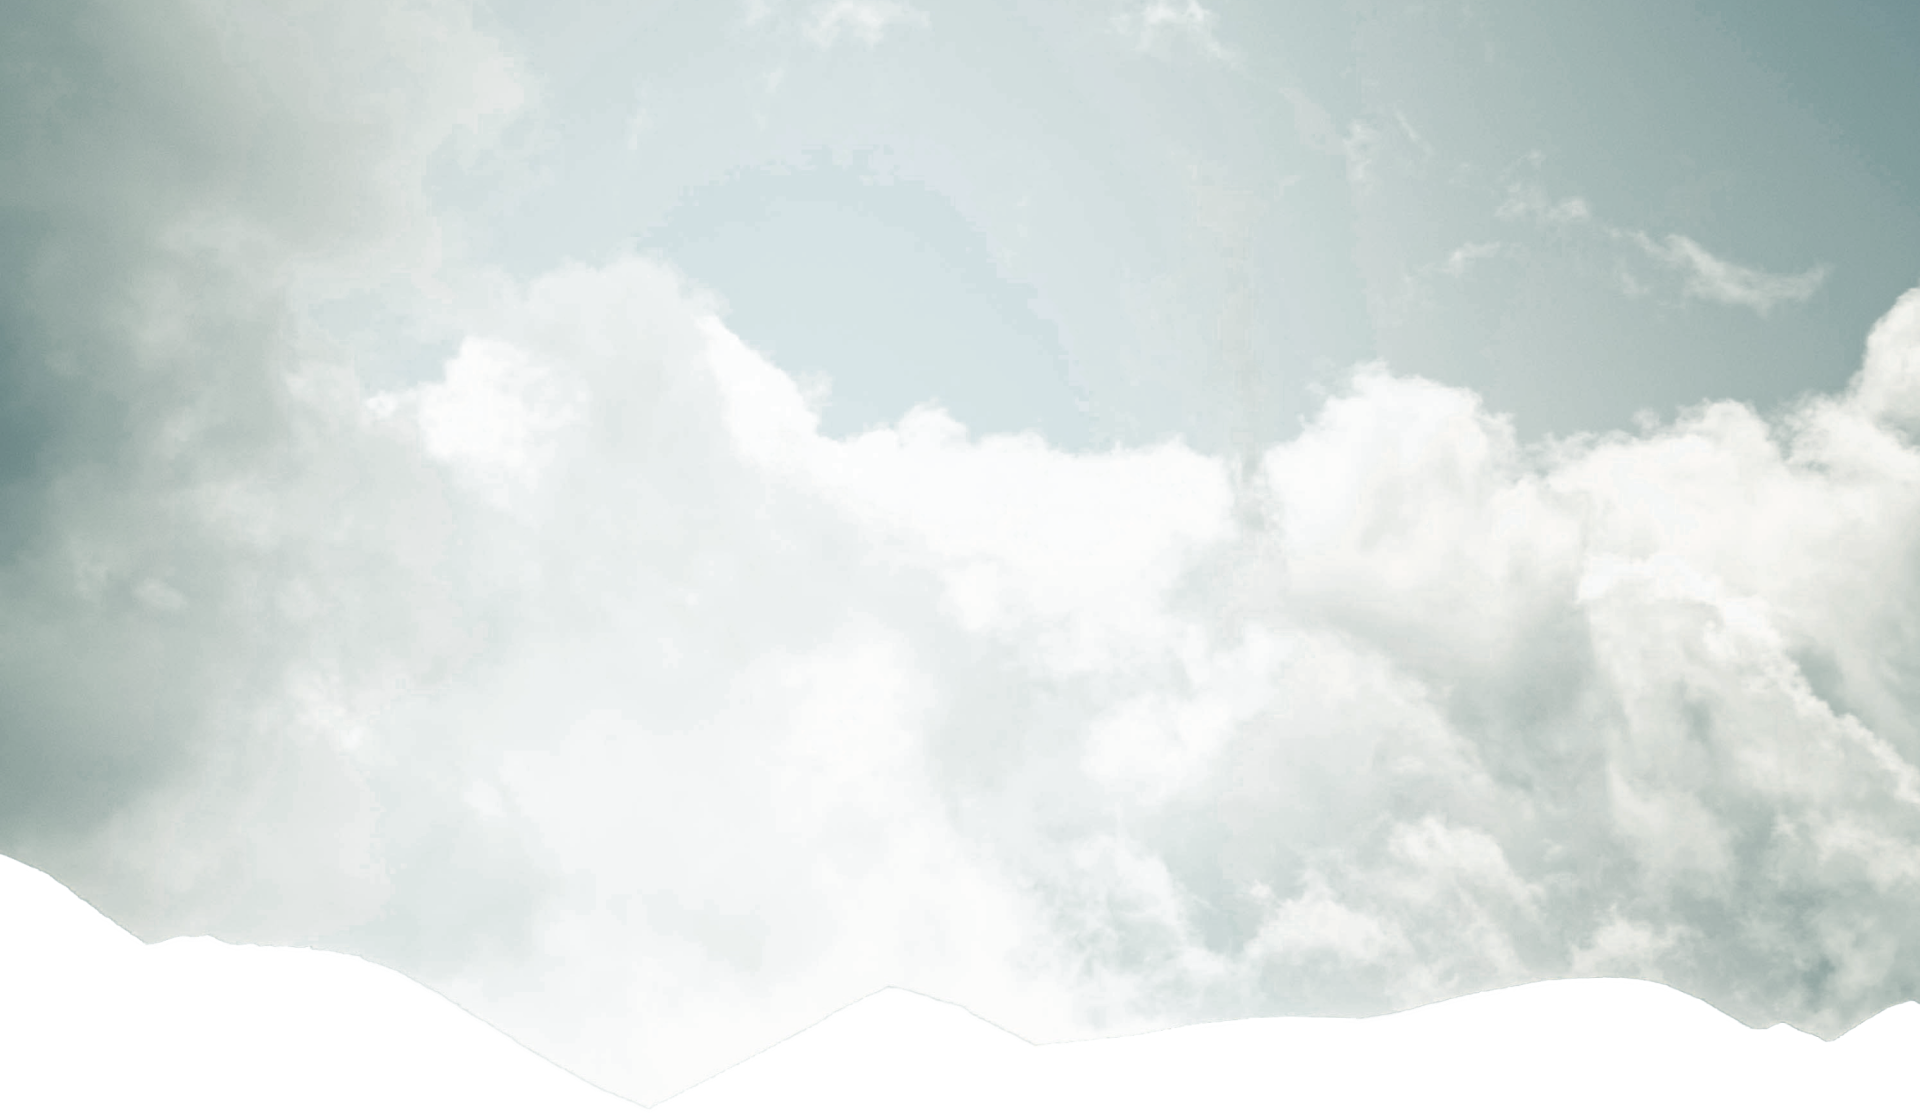
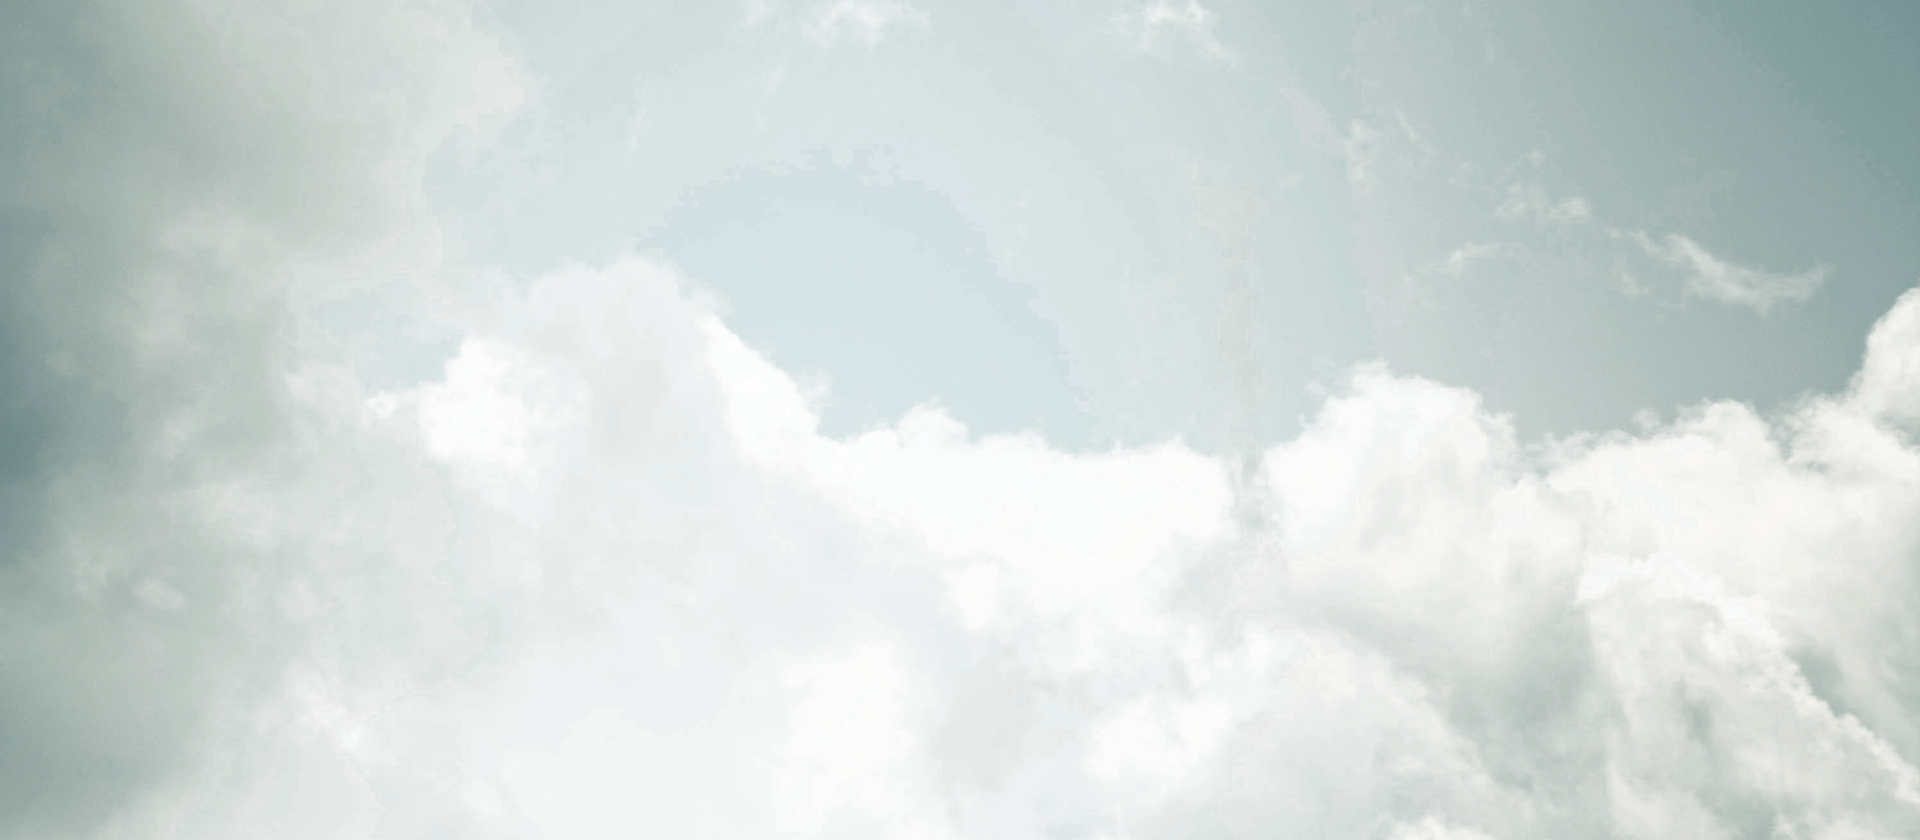
css changes

diff --git a/style.css b/style.css
@@ -155,8 +155,8 @@ body::-webkit-scrollbar-track {}
 
 .dark_gradient {
     position: absolute;
-    height: 100vh;
-    width: 100vw;
+    height: 500vh;
+    width: 500vw;
     z-index: 2;
     background: linear-gradient(330.24deg, rgba(11, 29, 38, 0.253) 31.06%, #0B1D26 108.93%);
 }
@@ -164,9 +164,10 @@ body::-webkit-scrollbar-track {}
 #clouds {
     z-index: 1;
     top: 0%;
-    margin-top: -25%;
+    margin-top: -100%;
     left: 0%;
-    width: 150vw;
+    width: 200vw;
+    height: 400vh;
 }
 
 .content {
@@ -186,18 +187,29 @@ body::-webkit-scrollbar-track {}
 
 }
 
+@media screen and (max-width:770px) {
+
+    .navlinks,
+    .login {
+        display: none;
+    }
+}
+
 @media screen and (max-width:430px) {
     #mountains {
         margin-top: 65vh;
+        width: 134vw;
     }
 
     #clouds {
         margin-top: 0;
         width: 300vw;
+        height: 100vh;
     }
 
     .landing_content {
-        margin-top: 30vw;
+        margin-top: 55vw;
+        padding: 0 10px;
     }
 
     #sun {
@@ -209,29 +221,32 @@ body::-webkit-scrollbar-track {}
     }
 
     #landing_heading {
-        font-size: 1.7rem;
+        font-size: 1.5rem;
     }
 }
 
-@media screen and (max-width:390px) {
-    /* #mountains {
-        margin-top: 89%;
-        width: 137vw;
-    } */
-
-    /* #man {
-        margin-top: 75vh;
-    } */
+@media screen and (max-width:370px) {
 
     #landing_heading {
-        font-size: 1.2rem;
+        font-size: 1.3rem;
+
+    }
+
+    #mountains {
+        width: 154vw;
+        margin-top: 75vh;
     }
 
     #clouds {
         width: 300vw;
+        height: 140vh;
     }
 
     .landing_content {
-        margin-top: 50vw;
+        margin-top: 60vw;
+    }
+
+    #man {
+        top: 82%;
     }
 }
